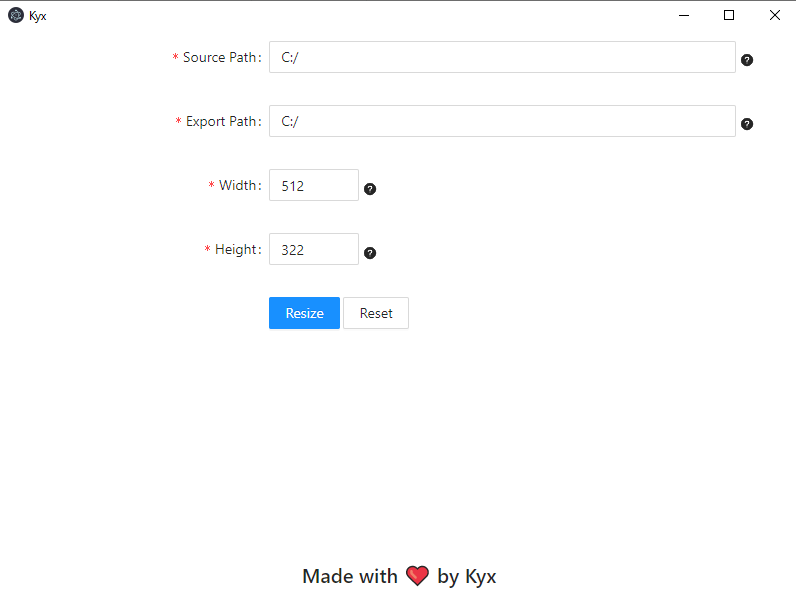
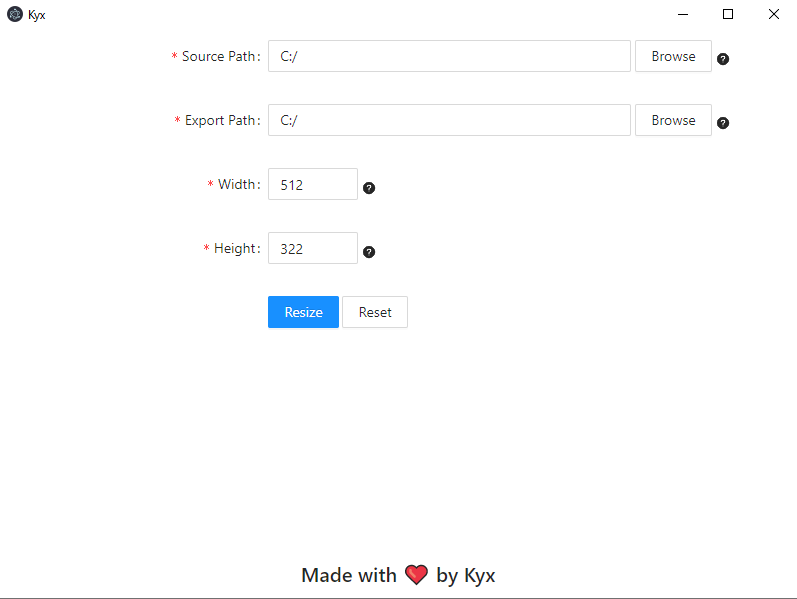
update

diff --git a/Kyx/Data/ImageResizeService.cs b/Kyx/Data/ImageResizeService.cs
@@ -4,6 +4,8 @@ using System.Linq;
 using System.Threading.Tasks;
 using System.IO;
 using SkiaSharp;
+using ElectronNET.API;
+using ElectronNET.API.Entities;
 
 namespace Kyx.Data
 {
@@ -14,6 +16,32 @@ namespace Kyx.Data
         public ImageResizeService()
         {
 
+        }
+
+        public async Task<string> OnSelectFolder()
+        {
+            var mainWindow = Electron.WindowManager.BrowserWindows.First();
+            var folders = await Electron.Dialog.ShowOpenDialogAsync(mainWindow, new ElectronNET.API.Entities.OpenDialogOptions() { Properties = new ElectronNET.API.Entities.OpenDialogProperty[] { ElectronNET.API.Entities.OpenDialogProperty.openDirectory } });
+            if (folders.Length > 0)
+            {
+                return folders[0];
+            }
+            return String.Empty;
+        }
+
+        public async Task<string> OnSelectExportFolder()
+        {
+            var mainWindow = Electron.WindowManager.BrowserWindows.First();
+            OpenDialogOptions options = new OpenDialogOptions()
+            {
+                Properties = new ElectronNET.API.Entities.OpenDialogProperty[] { ElectronNET.API.Entities.OpenDialogProperty.openDirectory }
+            };
+            var folders = await Electron.Dialog.ShowOpenDialogAsync(mainWindow, options);
+            if (folders.Length > 0)
+            {
+                return folders[0];
+            }
+            return String.Empty;
         }
 
         public ResizeResult ResizeFolder(string directoryPath, string directoryExportPath, float width, float height)

diff --git a/Kyx/Startup.cs b/Kyx/Startup.cs
@@ -30,7 +30,6 @@ namespace Kyx
         {
             services.AddRazorPages();
             services.AddServerSideBlazor();
-            services.AddSingleton<WeatherForecastService>();
             services.AddSingleton<ImageResizeService>();
             services.AddAntDesign();
         }
